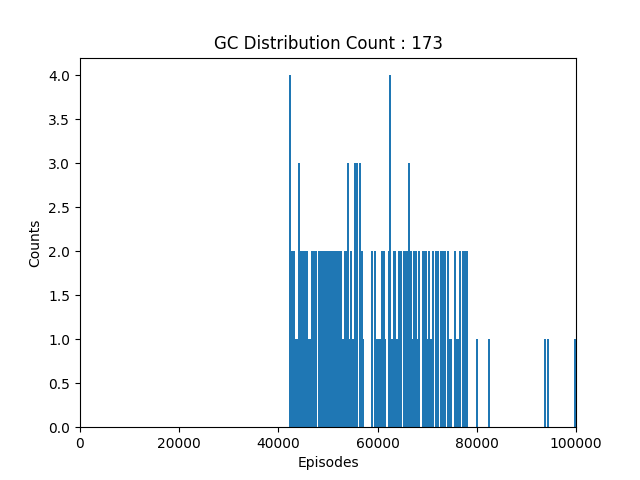
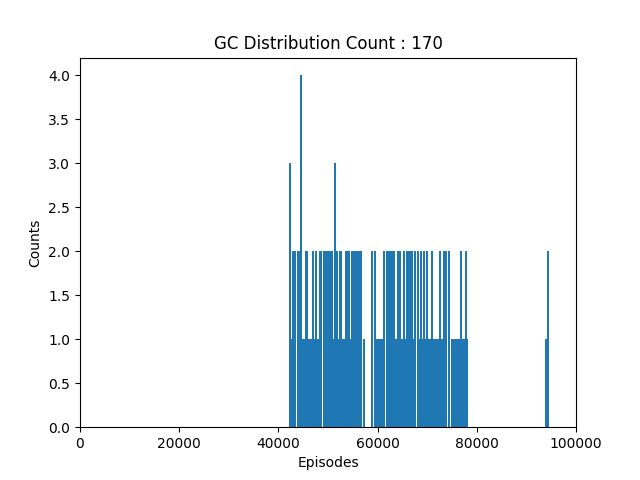
add pretrain strategy

Changed region(s): [[0.5938, 0.5, 0.75, 0.9062], [0.4375, 0.3438, 0.5625, 0.7188], [0.6562, 0.0625, 0.6875, 0.0938]]

diff --git a/ftl/pretrain/value_net.py b/ftl/pretrain/value_net.py
@@ -1,0 +1,43 @@
+from sklearn.preprocessing import StandardScaler
+from .q_model import QModel
+import torch
+import pandas as pd
+import numpy as np
+from dotenv import load_dotenv
+import os
+load_dotenv()
+
+MODEL_WEIGHT_PATH = os.getenv('MODEL_WEIGHT_PATH')
+TRACE_PATH = os.getenv('TRACE_PATH')
+
+class ValueNet:
+    def __init__(self) -> None:
+        self.Initialize()
+    
+    def Initialize(self):
+        self.device = torch.device('cuda:0' if torch.cuda.is_available() else 'cpu')
+        self.qModel = QModel().to(self.device).eval()
+        self.scalerLbaDiff = StandardScaler()
+        self.scalerBytes = StandardScaler()
+        self.prevLba = 0
+        self.qModel.load_state_dict(torch.load(MODEL_WEIGHT_PATH))
+        self.Standardize()
+
+    def Standardize(self):
+        data = pd.read_csv(TRACE_PATH, header=None, dtype=np.float64).values
+        data[1:, 2] = np.diff(data[:, 2])
+        data[0, 2] = 0
+        data[:, 2] = self.scalerLbaDiff.fit_transform(data[:, 2].reshape(-1, 1)).flatten()
+        data[:, 3] = self.scalerBytes.fit_transform(data[:, 3].reshape(-1, 1)).flatten()
+
+    def NewReq(self, request):
+        lbaDiff = request.lba - self.prevLba
+        self.prevLba = request.lba
+        bytes = request.bytes
+        standardized_lba_diff = self.scalerLbaDiff.transform(np.array(lbaDiff).reshape(1, -1))
+        standardized_bytes = self.scalerBytes.transform(np.array(bytes).reshape(1, -1))
+        input_data = np.concatenate((standardized_lba_diff, standardized_bytes), axis=1)
+        with torch.no_grad():
+            output = self.qModel(torch.tensor(input_data, dtype=torch.float32, device=self.device))
+            _, predicted_labels = torch.max(output, dim=1)
+        return predicted_labels[0].cpu().numpy()

diff --git a/ftl/flash_translation.py b/ftl/flash_translation.py
@@ -3,6 +3,7 @@ from .nand.block import BlockType
 from .nand.nand_controller import NandController
 from .address.address_translation import AddressTranslation
 from .gc.garbage_collection import GarbageCollection
+from .pretrain.value_net import ValueNet
 import random
 from dotenv import load_dotenv
 import os
@@ -19,6 +20,7 @@ class FlashTranslation:
         self.nandController = NandController()
         self.addressTranslation = AddressTranslation()
         self.garbageCollection = GarbageCollection(self.nandController, self.addressTranslation)
+        self.valueNet = ValueNet()
         self.strategyType = None
 
     def Reset(self):
@@ -39,6 +41,9 @@ class FlashTranslation:
             action = random.choice(ACTION_SPACE)
         elif self.strategyType == 'Statistic':
             action = ACTION_SPACE[request.action]
+        elif self.strategyType == 'PreTrain':
+            predict = self.valueNet.NewReq(request)
+            action = ACTION_SPACE[predict]
         return action
     
     # return actual write bytes

diff --git a/ftl/pretrain/q_model.py b/ftl/pretrain/q_model.py
@@ -1,0 +1,22 @@
+import torch.nn as nn
+from dotenv import load_dotenv
+import os
+load_dotenv()
+
+INPUT_SIZE = int(os.getenv('INPUT_SIZE'))
+HIDDEN_SIZE = int(os.getenv('HIDDEN_SIZE'))
+ACTION_SIZE = int(os.getenv('ACTION_SIZE'))
+    
+class QModel(nn.Module):
+    def __init__(self):
+        super(QModel, self).__init__()
+        self.hiddenLayer1 = nn.Linear(INPUT_SIZE, HIDDEN_SIZE)
+        self.hiddenLayer2 = nn.Linear(HIDDEN_SIZE, HIDDEN_SIZE)
+        self.outputLayer = nn.Linear(HIDDEN_SIZE, ACTION_SIZE)
+        self.activation = nn.ReLU()
+
+    def forward(self, inputs):
+        x = self.activation(self.hiddenLayer1(inputs))
+        x = self.activation(self.hiddenLayer2(x))
+        x = self.outputLayer(x)
+        return x
